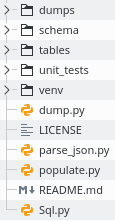
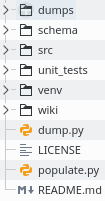
Refactors and reorganizes in folders

diff --git a/populate.py b/populate.py
@@ -4,8 +4,8 @@ import collections
 import json
 from os import listdir
 from os.path import isfile, join
-from Sql import SQL
-from parse_json import ParseJson
+from src.Sql import SQL
+from src.parse_json import ParseJson
 
 SCRIPTS_DICT = "dumps"
 

diff --git a/dump.py b/dump.py
@@ -2,8 +2,8 @@
 import time
 import collections
 import json
-from Sql import SQL
-from parse_json import ParseJson
+from src.Sql import SQL
+from src.parse_json import ParseJson
 
 
 class Dump(object):

diff --git a/README.md b/README.md
@@ -1,4 +1,19 @@
 # DB populator 
 
-###Directory structure
+###Directory structure  
+
 ![alt-text-1](wiki/folders.png "directories") 
+
+* dumps - contains tables dumped in json files
+* schema - contains slq script to create tables and json config to connect to MySQL  
+* src - contains source code  
+* unit_test - contains unit tests  
+* venv - libraries
+* wiki - documentation
+
+### How to use?
+- Create table script and save it schema/tables.sql
+- Fill database connection configuration in schema/schema_info.json
+- Fill json files corresponding to the sample.json to represent an sql table
+- Executing ./populate.py will read the json files and populate tables in db
+- Executing ./dump.py will read the tables and populate json files in "dumps" 
